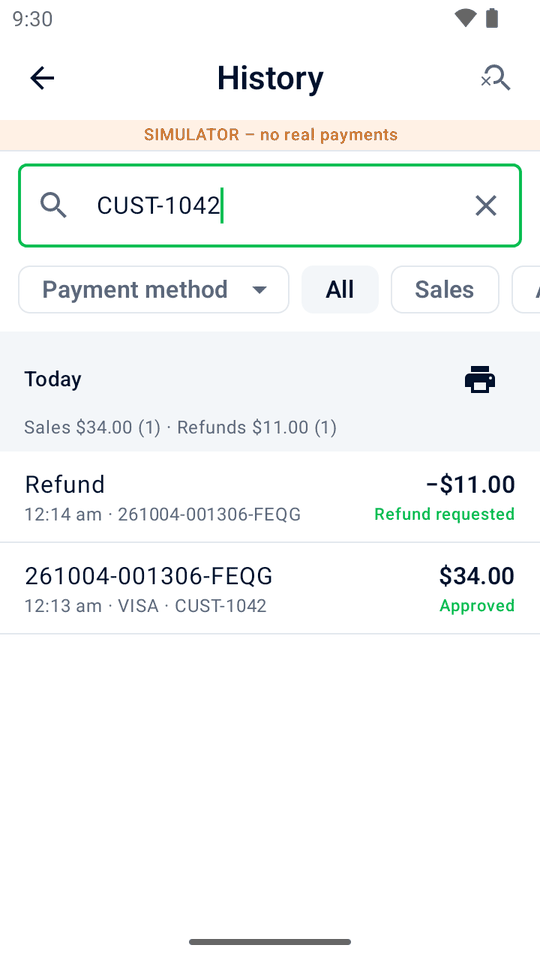
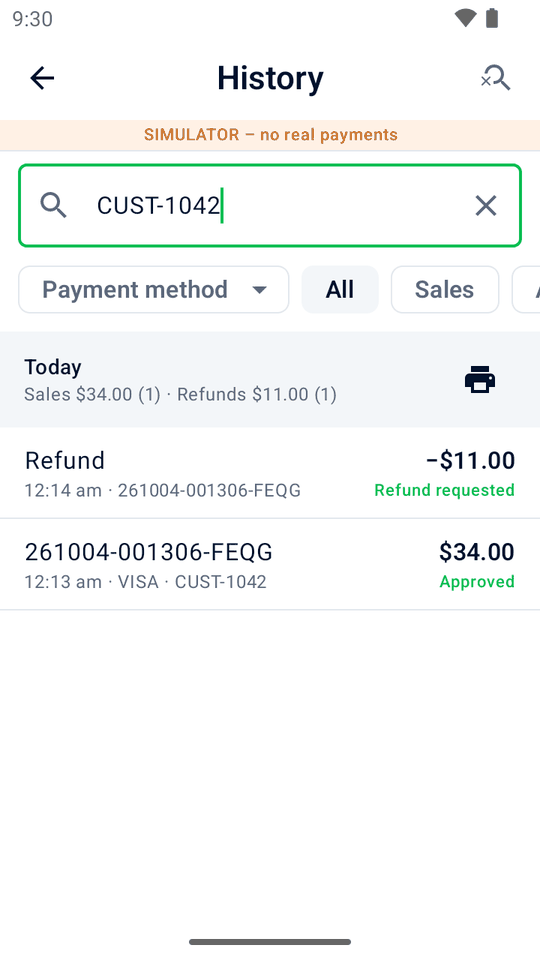
Keep daily totals beside the History print action

Changed region(s): [[0.0296, 0.375, 0.563, 0.6562], [0.6815, 0.4688, 0.9481, 0.6562], [0.3259, 0.4062, 0.6222, 0.4688]]

diff --git a/app/src/main/java/io/github/astiskala/minimpos/app/feature/history/HistoryScreens.kt b/app/src/main/java/io/github/astiskala/minimpos/app/feature/history/HistoryScreens.kt
@@ -304,34 +304,41 @@ private fun DayHeader(
         values.entries.joinToString(" + ") { (currency, minor) ->
             MoneyFormatter(CurrencySpec.of(currency), locale).format(minor)
         }
-    Column(Modifier.fillMaxWidth().background(MaterialTheme.colorScheme.surfaceVariant).padding(horizontal = 16.dp, vertical = 8.dp)) {
-        Row(Modifier.fillMaxWidth(), verticalAlignment = Alignment.CenterVertically) {
-            Text(title, Modifier.weight(1f), style = MaterialTheme.typography.titleSmall)
-            if (canPrint) {
-                IconButton(
-                    onClick = onPrint,
-                    enabled = !printing,
-                    modifier = Modifier.testTag("printDay_${day.date}"),
-                ) {
-                    Icon(Icons.Default.Print, stringResource(R.string.history_print_day))
+    Row(
+        Modifier.fillMaxWidth().background(MaterialTheme.colorScheme.surfaceVariant).padding(horizontal = 16.dp, vertical = 8.dp),
+        verticalAlignment = Alignment.CenterVertically,
+    ) {
+        Column(Modifier.weight(1f)) {
+            Text(title, style = MaterialTheme.typography.titleSmall)
+            val parts =
+                buildList {
+                    if (day.totals.saleCount > 0) {
+                        add(stringResource(R.string.history_day_sales, totals(day.totals.salesMinor), day.totals.saleCount))
+                    }
+                    if (day.totals.tipsMinor.isNotEmpty()) add(stringResource(R.string.history_day_tips, totals(day.totals.tipsMinor)))
+                    if (day.totals.refundCount > 0) {
+                        add(stringResource(R.string.history_day_refunds, totals(day.totals.refundsMinor), day.totals.refundCount))
+                    }
+                    if (day.totals.preAuthCount > 0) {
+                        add(stringResource(R.string.history_day_pre_auths, totals(day.totals.preAuthsMinor), day.totals.preAuthCount))
+                    }
                 }
+            if (parts.isNotEmpty()) {
+                Text(
+                    parts.joinToString(" · "),
+                    style = MaterialTheme.typography.bodySmall,
+                    color = MaterialTheme.colorScheme.onSurfaceVariant,
+                )
             }
         }
-        val parts =
-            buildList {
-                if (day.totals.saleCount > 0) {
-                    add(stringResource(R.string.history_day_sales, totals(day.totals.salesMinor), day.totals.saleCount))
-                }
-                if (day.totals.tipsMinor.isNotEmpty()) add(stringResource(R.string.history_day_tips, totals(day.totals.tipsMinor)))
-                if (day.totals.refundCount > 0) {
-                    add(stringResource(R.string.history_day_refunds, totals(day.totals.refundsMinor), day.totals.refundCount))
-                }
-                if (day.totals.preAuthCount > 0) {
-                    add(stringResource(R.string.history_day_pre_auths, totals(day.totals.preAuthsMinor), day.totals.preAuthCount))
-                }
+        if (canPrint) {
+            IconButton(
+                onClick = onPrint,
+                enabled = !printing,
+                modifier = Modifier.testTag("printDay_${day.date}"),
+            ) {
+                Icon(Icons.Default.Print, stringResource(R.string.history_print_day))
             }
-        if (parts.isNotEmpty()) {
-            Text(parts.joinToString(" · "), style = MaterialTheme.typography.bodySmall, color = MaterialTheme.colorScheme.onSurfaceVariant)
         }
     }
 }

diff --git a/app/src/test/java/io/github/astiskala/minimpos/app/ui/HistoryActionsTest.kt b/app/src/test/java/io/github/astiskala/minimpos/app/ui/HistoryActionsTest.kt
@@ -14,12 +14,15 @@ import androidx.compose.ui.test.performScrollTo
 import com.google.common.truth.Truth.assertThat
 import io.github.astiskala.minimpos.app.GST_RATES
 import io.github.astiskala.minimpos.app.MiniMposApp
+import io.github.astiskala.minimpos.app.R
 import io.github.astiskala.minimpos.app.TestEnvironment
 import io.github.astiskala.minimpos.app.await
 import io.github.astiskala.minimpos.app.data.db.ProductEntity
 import io.github.astiskala.minimpos.app.data.db.RefundEntity
 import io.github.astiskala.minimpos.app.data.db.RefundStatus
 import io.github.astiskala.minimpos.app.data.db.SaleKind
+import io.github.astiskala.minimpos.core.money.CurrencySpec
+import io.github.astiskala.minimpos.core.money.MoneyFormatter
 import io.github.astiskala.minimpos.core.money.PaymentContext
 import kotlinx.coroutines.flow.first
 import org.junit.Before
@@ -110,7 +113,40 @@ class HistoryActionsTest {
     }
 
     @Test
-    fun `day header prints hidden refunds and demo sales despite active sales filter at AMS1 size`() {
+    fun `day totals wrap beside the print action at AMS1 size`() = assertDayTotalsBesidePrint()
+
+    @Test
+    @Config(qualifiers = "zh-rCN-w320dp-h460dp-hdpi")
+    fun `Chinese day totals stay beside the print action at AMS1 size`() = assertDayTotalsBesidePrint()
+
+    @Test
+    @Config(qualifiers = "ja-w320dp-h460dp-hdpi")
+    fun `Japanese day totals stay beside the print action at AMS1 size`() = assertDayTotalsBesidePrint()
+
+    private fun assertDayTotalsBesidePrint() {
+        seedReportHistory()
+        compose.onNodeWithTag("history").performClick()
+        val date = LocalDate.now()
+        waitForTag("printDay_$date")
+        val amount = MoneyFormatter(CurrencySpec.of("AUD"), env.context.resources.configuration.locales[0]).format(450)
+        val sales = env.context.getString(R.string.history_day_sales, amount, 1)
+        val totals =
+            compose
+                .onNode(hasText(sales, substring = true))
+                .assertIsDisplayed()
+                .fetchSemanticsNode()
+                .boundsInRoot
+        val print =
+            compose
+                .onNodeWithTag("printDay_$date")
+                .assertIsDisplayed()
+                .fetchSemanticsNode()
+                .boundsInRoot
+        assertThat(totals.right).isAtMost(print.left)
+        assertThat(totals.top).isLessThan(print.bottom)
+    }
+
+    private fun seedReportHistory() =
         await {
             container.sampleData.populate(container.settings.current())
             val now = System.currentTimeMillis()
@@ -132,6 +168,10 @@ class HistoryActionsTest {
                 ),
             )
         }
+
+    @Test
+    fun `day header prints hidden refunds and demo sales despite active sales filter at AMS1 size`() {
+        seedReportHistory()
         compose.onNodeWithTag("history").performClick()
         compose.waitUntilAtLeastOneExists(hasText("Sales"), 15_000)
         compose.onNodeWithText("Sales").performClick()
